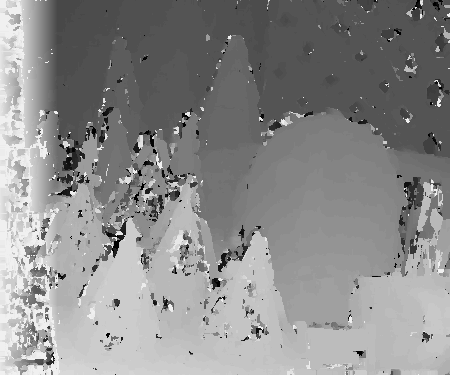
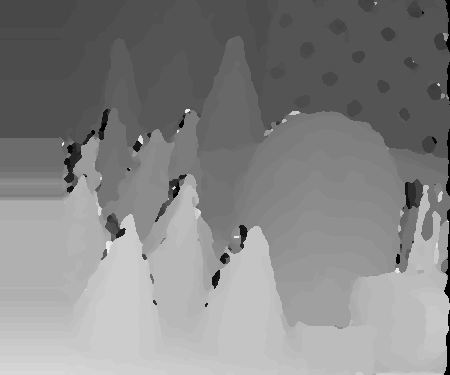
Add files via upload

diff --git a/hw4/main.py b/hw4/main.py
@@ -3,6 +3,63 @@ import cv2
 from scipy import ndimage
 import time
 from os.path import exists
+import random
+from ref import BSM
+import psutil
+
+np.random.seed(666)
+BLACK = [0, 0, 0]
+
+class BinaryCost():
+    def __init__(self, img1, img2, pair, half_wd=13, num_pair=4096):
+        self.img1 = img1
+        self.img2 = img2
+        self.num_pair = num_pair
+
+        self.first_y = pair[0]
+        self.first_x = pair[1]
+        self.second_y = pair[2]
+        self.second_x = pair[3]
+        self.half_wd = half_wd
+
+    def set_bits(self):
+        h, w = self.img1.shape
+        self.left_bits = np.zeros((h, w, self.num_pair), dtype=bool)
+        self.right_bits = np.zeros((h, w, self.num_pair), dtype=bool)
+
+        for y in range(self.half_wd, h-self.half_wd):
+            print (y)
+
+            for x in range(self.half_wd, w-self.half_wd):
+                left_bits, right_bits = self.get_bits(y, x, 0)
+                self.left_bits[y-self.half_wd, x-self.half_wd] = left_bits
+                self.right_bits[y-self.half_wd, x-self.half_wd] = right_bits
+                del left_bits, right_bits
+
+    def get_bits(self, y_pos, x_pos, sft):
+        self.select_patch_11 = self.img1[y_pos + self.first_y, x_pos + self.first_x]
+        self.select_patch_12 = self.img1[y_pos + self.second_y, x_pos + self.second_x]
+
+        self.select_patch_21 = self.img2[y_pos + self.first_y, x_pos - sft + self.first_x]
+        self.select_patch_22 = self.img2[y_pos + self.second_y, x_pos - sft + self.second_x]
+
+        result_patch_1 = self.select_patch_11 > self.select_patch_12
+        result_patch_2 = self.select_patch_21 > self.select_patch_22
+        del self.select_patch_11, self.select_patch_12, self.select_patch_21, self.select_patch_22
+
+        return result_patch_1, result_patch_2
+
+def get_random_pair(num_pair=4096):
+
+    pair_seq = (np.random.normal(0., 4.0, num_pair*4))#.astype(np.int16)
+    pair_seq = np.clip(pair_seq, -13, 13).astype(np.int_)
+
+    first_y = pair_seq[:num_pair]    
+    first_x = pair_seq[num_pair:num_pair*2]    
+    second_y = pair_seq[num_pair*2:num_pair*3]    
+    second_x = pair_seq[num_pair*3:]
+
+    return (first_y, first_x, second_y, second_x)
 
 def correlation_coefficient(patch1, patch2):
     product = np.mean((patch1 - patch1.mean()) * (patch2 - patch2.mean()))
@@ -13,24 +70,6 @@ def correlation_coefficient(patch1, patch2):
         product /= stds
         return product
 
-def census(patch1, patch2):
-    y_size = patch1.shape[0]
-    x_size = patch1.shape[1]
-
-    zero_patch = np.zeros(patch1.shape)
-    p1_cent = patch1[int(y_size / 2), int(x_size / 2)]
-    p2_cent = patch2[int(y_size / 2), int(x_size / 2)]
-    patch1 -= p1_cent
-    patch2 -= p2_cent
-    patch1 = np.maximum(patch1, zero_patch)
-    patch1 = patch1 / (patch1 + 10e-8)
-    patch2 = np.maximum(patch2, zero_patch)
-    patch2 = patch2 / (patch2 + 10e-8)
-    sum_patch = (patch1 + patch2).astype(np.int16)
-    xor_patch = sum_patch[np.where(sum_patch == 1)]
-    cost = len(xor_patch)
-    return cost
-
 def normalize(patch):
     nor_patch = ((patch - np.mean(patch)) / np.std(patch) + 10e-8)
     return nor_patch
@@ -39,53 +78,46 @@ def computeDisp(Il, Ir, scale_factor, max_disp):
 
     h, w, ch = Il.shape
     labels = np.zeros((h, w), dtype=np.uint8)
-    block_size = 9
+    block_size = 26
     half_wd = int(block_size / 2)
 
     # >>> Cost computation
     tic = time.time()
     # TODO: Compute matching cost from Il and Ir
 
-    Il = ndimage.median_filter(Il, 3)
-    Ir = ndimage.median_filter(Ir, 3)
-    cost_volumn = np.zeros((h, w, max_disp+1), dtype=np.float32)
+    #Il = ndimage.median_filter(Il, 3)
+    #Ir = ndimage.median_filter(Ir, 3)
+    cost_volume = np.zeros((h, w, max_disp+1), dtype=np.float32)
+    cost_volume += 10e8
 
-    #Il = cv2.bilateralFilter(Il, 5, 21, 21)
-    #Ir = cv2.bilateralFilter(Ir, 5, 21, 21)
+    Il = cv2.bilateralFilter(Il, 5, 21, 21)
+    Ir = cv2.bilateralFilter(Ir, 5, 21, 21)
+    Il = cv2.copyMakeBorder(Il, half_wd, half_wd, half_wd, half_wd, cv2.BORDER_CONSTANT, value=BLACK)
+    Ir = cv2.copyMakeBorder(Ir, half_wd, half_wd, half_wd, half_wd, cv2.BORDER_CONSTANT, value=BLACK)
+    Il = cv2.cvtColor(Il, cv2.COLOR_BGR2GRAY)
+    Ir = cv2.cvtColor(Ir, cv2.COLOR_BGR2GRAY)
+    pairs = get_random_pair()
 
-    for y in range(h):
+    bincost = BinaryCost(img1=Il, img2=Ir, pair=pairs, half_wd=half_wd)
+    bincost.set_bits()
+
+    for y in range(half_wd, half_wd+h):
         print (y)
-        for x in range(w):
-            top   = max(0, y - half_wd)
-            left  = max(0, x - half_wd)
-            bot   = min(h, y + half_wd)
-            right = min(w, x + half_wd)
+        for x in range(half_wd, half_wd+w):
+            top = y - half_wd
+            left = x - half_wd
+            bot = y + half_wd + 1
+            right = x + half_wd + 1
+            left_bits = bincost.left_bits[y-half_wd, x-half_wd]
 
-            l_patch = Il[top:bot, left:right]
-            r_patch = Ir[top:bot, left:right]
-            l_patch_g = cv2.cvtColor(l_patch, cv2.COLOR_BGR2GRAY)#.astype(np.float32)
-            r_patch_g = cv2.cvtColor(r_patch, cv2.COLOR_BGR2GRAY)#.astype(np.float32)
-
-            dis = list()
-            for shift in range(-max_disp, 1):
-                leftend = max(0, left+shift)
-                rightend = min(w, right+shift)
-                x_interval = rightend - leftend
-
-                if x_interval > 0:
-                    r_patch = Ir[top:bot, leftend:rightend]
-                    l_patch_2 = l_patch[:, :x_interval]
-
-                    #nor_l_patch = normalize(l_patch_2)
-                    #nor_r_patch = normalize(r_patch)
-                    l_patch_g = cv2.cvtColor(l_patch_2, cv2.COLOR_BGR2GRAY)#.astype(np.float32)
-                    r_patch_g = cv2.cvtColor(r_patch, cv2.COLOR_BGR2GRAY)#.astype(np.float32)
-                    #dis.append(census(l_patch_g, r_patch_g))
-                    cost_volumn[y, x, -shift] = correlation_coefficient(l_patch_g, r_patch_g)
-                    #dis.append(-correlation_coefficient(l_patch_g, r_patch_g))
-            #dis = np.array(dis)
-
-            #labels[y, x] = (max_disp - np.argmin(dis)) * scale_factor
+            for shift in range(max_disp):
+                if left - shift >= 0:
+                    right_bits = bincost.right_bits[y-half_wd, x-half_wd-shift]
+                    match_cost = np.sum(np.logical_xor(left_bits, right_bits))
+                    cost_volume[y-half_wd, x-half_wd, shift] = match_cost
+                    del right_bits, match_cost
+                    #print (y-half_wd, x-half_wd, shift, match_cost)
+            #print (np.argmin(cost_volume[y-half_wd, x-half_wd, :]))
 
     toc = time.time()
     print('* Elapsed time (cost computation): %f sec.' % (toc - tic))
@@ -109,16 +141,15 @@ def computeDisp(Il, Ir, scale_factor, max_disp):
     # ex: Left-right consistency check + hole filling + weighted median filtering
 
     for z in range(max_disp+1):
-        cost_volumn[:, :, z] = cv2.bilateralFilter(cost_volumn[:, :, z], 5, 21, 21)
-    labels = np.argmax(cost_volumn, axis=2) * scale_factor
+        cost_volume[:, :, z] = ndimage.median_filter(cost_volume[:, :, z], 3)
+    labels = np.argmin(cost_volume, axis=2) * scale_factor
     #tmp
     for i in range(max_disp):
         labels[:, i] = labels[:, max_disp+1]
-    #labels = ndimage.median_filter(labels, 3)
+    labels = ndimage.median_filter(labels, 3)
     toc = time.time()
     print('* Elapsed time (disparity refinement): %f sec.' % (toc - tic))
     return labels
-
 
 def main():
     print('Tsukuba')
@@ -128,6 +159,10 @@ def main():
     scale_factor = 16
     labels = computeDisp(img_left, img_right, scale_factor, max_disp)
     cv2.imwrite('tsukuba.png', np.uint8(labels))
+
+    #bsm = BSM(max_disp, scale_factor, 'tsukuba.png')
+    #bsm.setPairDistr()
+    #bsm.match(img_left, img_right)    
 
     print('Venus')
     img_left = cv2.imread('./testdata/venus/im2.png')
@@ -152,7 +187,6 @@ def main():
     scale_factor = 4
     labels = computeDisp(img_left, img_right, scale_factor, max_disp)# / 4
     cv2.imwrite('cones.png', np.uint8(labels))
-
 
 if __name__ == '__main__':
     main()

diff --git a/hw4/ref.py b/hw4/ref.py
@@ -1,0 +1,81 @@
+import numpy as np
+import cv2
+import sys
+import time
+# plt.figure()
+# plt.subplot(1, 2, 1)
+# plt.imshow(img_left, cmap='gray')
+# plt.subplot(1, 2, 2)
+# plt.imshow(img_right, cmap='gray')
+# plt.show()
+
+class BSM():
+    def __init__(self, max_disp, scale_factor, out_path):
+        self.patch_size = 26
+        self.des_len = 4096
+        self.std = 4
+        self.max_disp = max_disp
+        self.scale_factor = scale_factor
+        self.out_path = out_path
+
+    def setPairDistr(self):
+        # 4096 x 2
+        pair_seq = (np.random.normal(0., 4.0, self.des_len*4))
+        num_pair = self.des_len
+        p_samples = np.zeros((self.des_len, 2), dtype = np.float_)
+        p_samples[:, 0] = pair_seq[:num_pair]
+        p_samples[:, 1] = pair_seq[num_pair:num_pair*2]
+        self.p_samples = p_samples
+
+        q_samples = np.zeros((self.des_len, 2), dtype = np.float_)
+        q_samples[:, 0] = pair_seq[num_pair*2:num_pair*3]
+        q_samples[:, 1] = pair_seq[num_pair*3:]
+        self.q_samples = q_samples
+
+        self.p_samples = np.clip(self.p_samples.astype(np.int_), -13, 13)
+        self.q_samples = np.clip(self.q_samples.astype(np.int_), -13, 13)
+        print('finish setting pair distribution')
+
+    def match(self, i1, i2):
+        self.img_left = i1
+        self.img_right = i2
+        self.img_left = cv2.cvtColor(self.img_left, cv2.COLOR_BGR2GRAY)
+        self.img_right = cv2.cvtColor(self.img_right, cv2.COLOR_BGR2GRAY)
+
+        row, col = self.img_left.shape
+        disparity_map = np.zeros((row, col), dtype = np.int_)
+        for r in range(row):
+            for c in range(col):
+                source_bits = self._findbinstring(r, c, self.img_left)
+                ham_dis = 1e9 # initialize
+                disparity = None
+                for d in range(self.max_disp):
+                    if c - d >= 0: 
+                        target_bits = self._findbinstring(r, c - d, self.img_right)
+                        count = np.count_nonzero(source_bits ^ target_bits)
+                        print (r, c, d, count)
+                        time.sleep(0.1)
+                        if count < ham_dis:
+                            disparity = d
+                            ham_dis = count
+                print (ham_dis, disparity)
+                disparity_map[r, c] = disparity * self.scale_factor
+                cv2.imwrite(self.out_path, disparity_map)
+            print(r)
+        print(disparity_map)
+
+    def _findbinstring(self, r_offset, c_offset, img):
+        pad = self.patch_size // 2
+        image_pad = np.pad(img, (self.patch_size // 2, self.patch_size // 2), 'constant', constant_values=(0, 0))
+        p_r = self.p_samples[:, 0] + r_offset + pad
+        p_c = self.p_samples[:, 1] + c_offset + pad
+        q_r = self.q_samples[:, 0] + r_offset + pad
+        q_c = self.q_samples[:, 1] + c_offset + pad
+        bits = image_pad[p_r, p_c] > image_pad[q_r, q_c]
+
+        return bits
+
+if __name__ == '__main__':
+    a = BSM(MAX_DISP, SCALE_FACTOR)
+    a.setPairDistr()
+    a.match(img_left, img_right)
